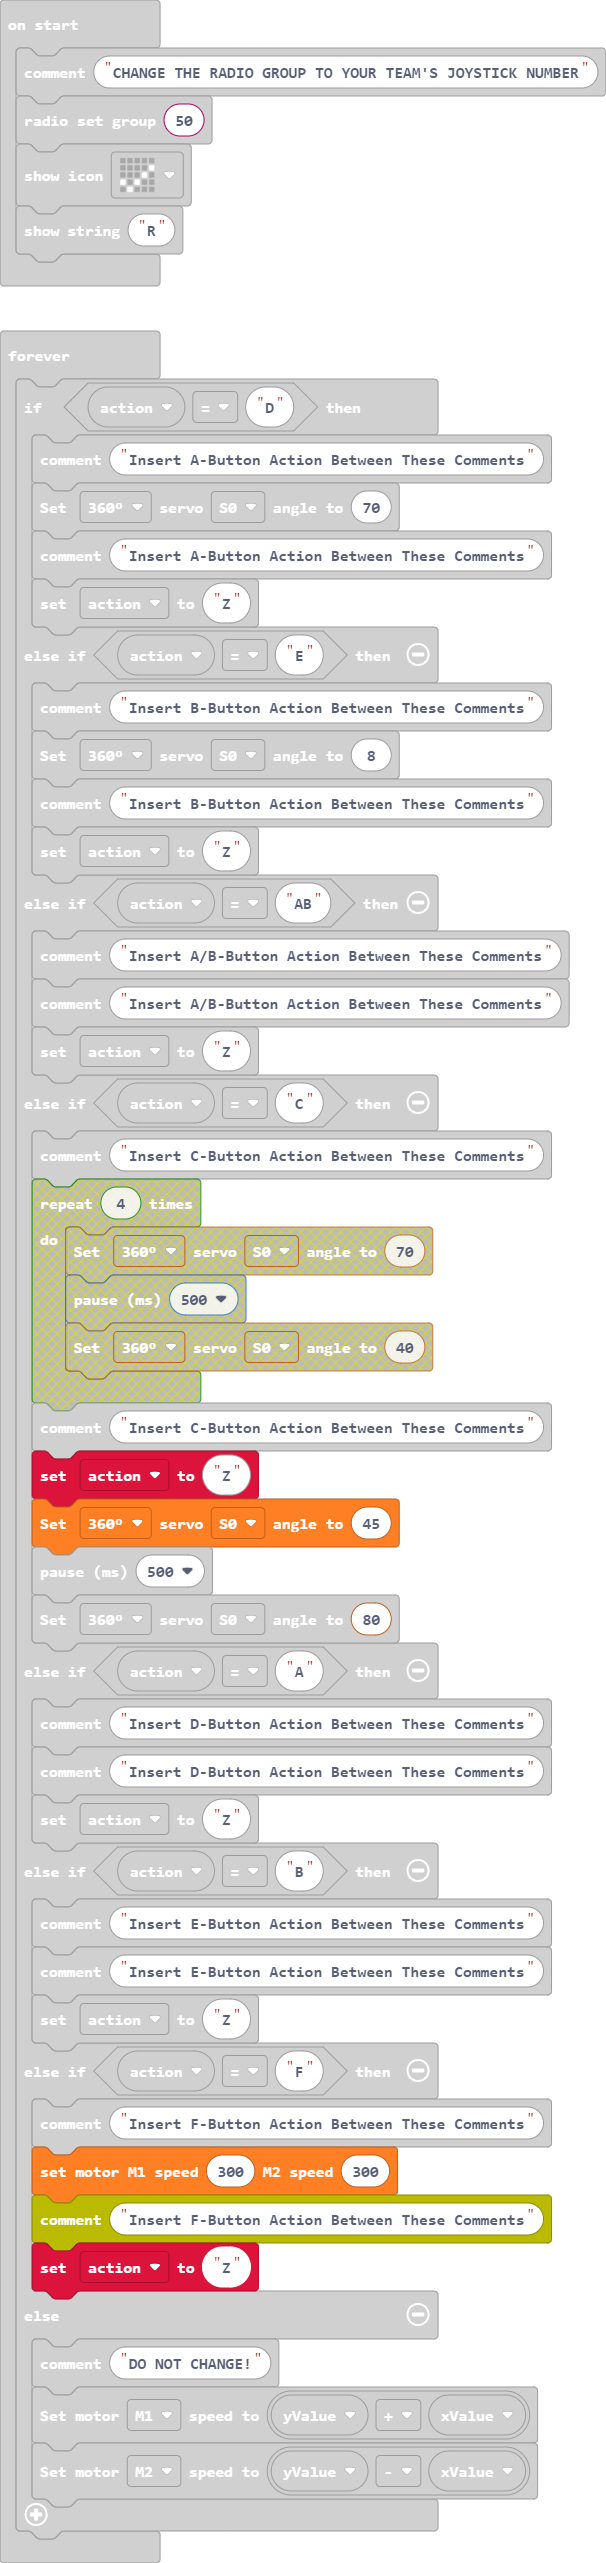
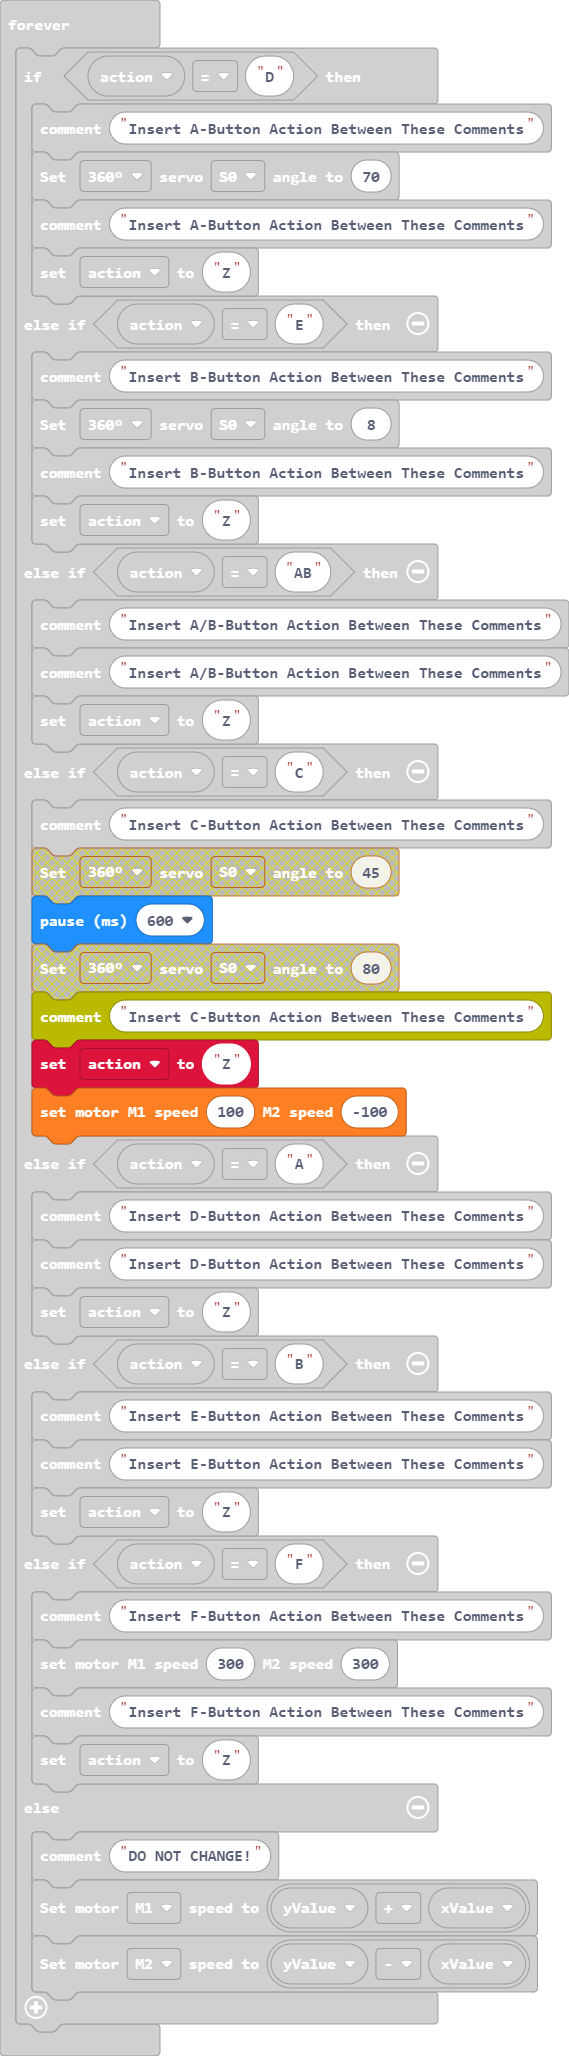
Update main.blocks, main.ts

diff --git a/main.ts b/main.ts
@@ -52,9 +52,8 @@ basic.forever(function () {
         action = "Z"
     } else if (action == "C") {
         comment.comment("Insert C-Button Action Between These Comments")
-        wuKong.setServoAngle(wuKong.ServoTypeList._360, wuKong.ServoList.S0, 45)
-        basic.pause(500)
-        wuKong.setServoAngle(wuKong.ServoTypeList._360, wuKong.ServoList.S0, 80)
+        wuKong.setAllMotor(100, -100)
+        basic.pause(600)
         comment.comment("Insert C-Button Action Between These Comments")
         action = "Z"
     } else if (action == "A") {
